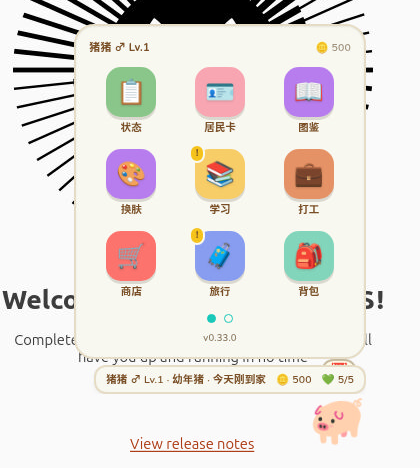
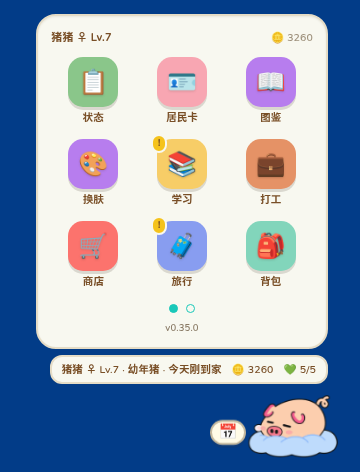
release: v0.35.0 — 经济体系、新立绘、扩展自动化（外壳 0.6.4）
- 外壳升 0.6.4（代理设置、面板开着时气泡不被挡）
- CHANGELOG 0.35.0 小节按主题写全
- README：顶部小猪图、功能列表、外壳说明换成现状；截图换成新立绘（主菜单、桌面、图鉴、换肤、不同状态的小猪、扩展徽章）
- HANDOFF 当前版本

diff --git a/CHANGELOG.md b/CHANGELOG.md
@@ -7,53 +7,44 @@ All notable changes to `dsh-pig`. Versions follow the plugin's own
 
 ## [Unreleased]
 
-- 普通猪、形态、皮肤、动作、睡姿、反馈场景与徽章统一为黑色轮廓透明 PNG，分类整理、离线清理和尺寸校准；原图不随游戏包发布。
-- 桌面可见与点击区域按 PNG 的透明边界计算，修复宽动作图的尾巴和身体被裁切；切换动作仍保持固定窗口大小。
-- 打工图改成猪在地上操作电脑，修正头背比例、背包带与新增蹄尖细节。
-- 皮肤包支持 PNG 并兼容旧 SVG，更新制作教程和示例包；旧存档无需重做。
+## [0.35.0] — 2026-10-10 · 经济体系、新立绘、扩展自动化（外壳 0.6.4）
 
-- **K1 菜园进度修正**：管理地块显示帮工的批次进度，不再写缺水；旧超长批次按 J2 周期校正，哈密瓜、葡萄跨六小时仓期正常出实物。手动浇水不重置批次，手动收获不重复发果。三种帮工空仓停工改显示「歇了／接着干」，有收成才叫「收一下」。
+### 新立绘
+- 普通猪、形态、皮肤、职业、成长阶段、动作、睡姿、不同状态的小猪和成就徽章，全部换成统一的黑色描边透明 PNG，按类型收进 `assets/pigs/`。游戏包反而小了一点。
+- 打工图改成猪趴在地上敲电脑；胖猪的宽图不再被裁掉。
+- 各种立绘按「猪的可见高度」统一校准，换皮肤、换形态时看起来一样大。
+- 自定义皮肤包改收 PNG，制作教程和示例包跟着换；以前做的 SVG 皮肤包照样能导入，已经装过的照常显示。
 
-- **K1 第二轮验收修正**：三个新帮工仓均累计六小时工作封顶，每个满级净时薪 ≤400；实物菜仍保留，帮工自动周期 / 收成单独核算；旧短行程原样保留。扩展单文件 server.js 上限改 600 行并恢复原格式 / 导出；不升存档版本；去掉钓鱼页新增说明，截图和验收材料不进仓库。
+### 经济
+- **不再限制每天玩几次**：番茄钟每个都给奖励；在线礼包每在线 1 小时一个、不设上限；猪在打工、上学、旅行时也能手动钓鱼。
+- 金币的进出都按来源记账，调试页「经济」能看钱从哪来、花到哪去（[设计](docs/design/economy.md)）。
+- **扩展有自己的钱**：菜币、矿石币、资质凭证……按扩展定的汇率跟金币互换（换成金币不收费，用金币买多收 5%）；删掉扩展时剩下的钱自动换成金币。背包里新增「钱包」页。
+- 各玩法的时薪都按收入区间核过（[J1](docs/numbers/J1-economy.md)、[J2](docs/numbers/J2-automation.md)）。
 
-- **自动钓鱼加长（K1）**：长时鱼篓恒定六小时工作产出，解锁 2 / 4 小时；鱼饵盒从背包逐竿补饵，鱼饵不足也可出发。仅新增 120/240 分钟行程每 4.5 分钟一竿、按时间差结算，仓满或缺饵就回，未用的预付饵退回；收一下再倒进背包。不升存档版本，ensureFishing 补默认字段；旧 30/60 分钟仍三分钟一竿、预付饵、直接进背包，重启不重复钓。
+### 玩法
+- **钓鱼 2.0**：40 种鱼、4 个钓点（小河、湖、海边、只在晚上开的夜潭）、4 把鱼竿；每种鱼游法不同、速度区间不同。等咬钩只要几秒（竹竿 3～8 秒），难度放在搏斗上，好竿让搏斗更容易；同种鱼越大越值钱。鲜虾鱼饵 15 → 6、夜光鱼饵 40 → 8。老存档送一把碳素竿。
+- **自动钓鱼加长**：可以买鱼篓、2 / 4 小时的自动钓、鱼饵盒；原来的 30 / 60 分钟一点没变。
+- **旅行 7 → 15 个地点**：公园、游乐场、动物园、海洋馆、竹林、雪山、沙漠、太空站（当过宇航员才能去），26 种新纪念品各有一句小故事。
+- **商店新上 27 件**：食物 12、洗浴 6、玩具 9。
+- **每个职业都能打 10 分钟短班**：时薪跟整班一样；短班不算完整一班，不会因为连打短班过劳生病。
 
-- **菜园 2.1.0**：可雇帮工猪，升级管理 2 / 4 / 8 块地和农具效率，谷仓恒定六小时。没有洒水器也会浇水，按帮工小批次周期把实物收成放进谷仓、用已有种子补种；六小时仓满就停止处理地块，缺种子就停，补回种子从当时继续，离线不追补停工产出。
+### 扩展（都要游戏 0.35.0）
+- **菜园 2.1.0**：16 种作物、8 块地；水壶、收割镰、播种器买了才能一键浇水 / 收获 / 种满；可以雇帮工猪替你收菜补种。界面换成插画版：天空、远山、木框田，主按钮自动做最该做的事。
+- **矿洞 2.1.0**：去掉体力，20 层，5 级镐一级级开路，矿脉、宝箱、化石、炸弹、电梯；可以雇小矿工猪替你挖。界面换成插画版洞窟。
+- **盲盒 3.0.0**：资质凭证放进钱包，1 张值 15 金币，能换成金币但不能用金币买；老存档的凭证打开盲盒时自动搬进钱包。
+- **扭蛋 1.2.0**：三台机器加进商店新上的东西。
+- 帮工、小矿工、自动钓鱼的仓都是攒满 6 小时就停，回来收一下接着干；满级每小时最多 400。
+- **扩展可以从文件导入**：「设置 → 扩展 → 📦 从文件导入」，选发布页上的扩展包 `.piggyext`（或扩展的三个文件）。官方扩展断网也能装；不是官方的先提醒风险，确认后才装，标「本地导入」、不会被在线更新盖掉。
 
-- **矿洞 2.1.0**：可雇小矿工猪，共用已有镐，升级矿车速度和头灯、选择电梯站；按真实时间产矿，离线最多到六小时仓满，收取倒进矿石袋。不触发手动连挖、宝箱、化石，不消耗猪饱食。
+### 桌面版（外壳 0.6.4）
+- 新增代理设置：跟随系统、直连、自定义 HTTP / SOCKS5；游戏更新、外壳更新和在线扩展共用。
+- 小猪大小改成「− 百分比 ＋」，每次 10%，也能直接输入；换皮肤后照样能调，两个窗口马上同步。
+- 面板开着时，签到 / 礼包小气泡挪到猪旁边，猪说的话也不再被面板挡住。
+- 少问 GitHub：版本列表和在线扩展目录存在本机，一段时间内不重复请求，带 ETag 问「有没有变」，不再撞「每小时次数用完」。
+- 修复两个窗口抢消息导致调试台词不显示。
 
-- **扩展自动化 K1 数值基准**：新增 [J2 数值单](docs/numbers/J2-automation.md) 和矿工、菜园帮工、自动钓鱼的经济模拟，列出每级价格、产出、净时薪和满仓时间，并逐时段检查钓鱼收益。用户已授权按本单继续实现，后续按反馈调数值。
-- **经济底座**（[设计](docs/design/economy.md)）：金币的加减全部走一个入口并按来源记账（打工、卖鱼、商店、学费……，扩展的记在「扩展名 · 来源」下），调试页新增「经济」页看钱从哪来、花到哪去。扩展删掉后，它挣的金币、给进背包的东西、账本历史都保留，别的扩展照常；扩展出错时整笔撤回；扩展冒充不了游戏本身的来源，一次动作最多加 100 万金币。扩展可以用 `api.exert` 让猪「玩会累」、用 `app.openShop()` 跳到自己的货架（按返回回到扩展页）。
-- **不再限制每天玩几次**：番茄钟每个都给奖励（以前每天只有前 8 个）；在线礼包每在线 1 小时一个、不设每天上限（没领的还是最多攒 3 个）；猪在打工、上学、旅行时也能手动钓鱼（只有自动钓鱼时不行）。
-
-- **扩展有自己的钱**：每个扩展可以有自己的货币（菜币 🥬、矿石币 ⛏……），按扩展定的汇率跟金币互换：换成金币不收费，用金币换扩展币多收 5%。扩展删掉时，里面剩的钱按汇率自动换成金币。背包里新增「钱包」页，扩展页顶上也显示。
-- **菜园 2.0**（扩展 ext-farm 2.0.0，要游戏 0.35.0）：16 种作物、8 块地；「一键播种 / 浇水 / 收获」照增量游戏的做法，一开始锁着，在商店「工具」里买了水壶、收割镰、播种器才解锁，还有按块装的洒水器和肥料；缺种子时直接跳到商店的种子货架，买完按返回回菜园。
-- **矿洞 2.0**（扩展 ext-mine 2.0.0，要游戏 0.35.0）：去掉体力，20 层，每 5 层一个电梯站；镐分 5 级，越深越要好镐；有矿脉、宝箱、化石（只收藏）、连挖加成、炸弹；挖累了猪会饿。老存档的钻石镐直接对应新的钻石镐。
-- **菜园、矿洞换成插画版界面**（用户 2026-10-10 定第 3 稿）：场景收进一扇窗（天空、远山、木框田 / 洞顶暖光、岩层），帮工状态是窗角一个小牌子；种子、镐、炸弹、电梯做成圆形口袋格；底下一个主按钮自动做最该做的事（有一键工具就一次做完，没有就一次做一块），工具、仓库、矿石袋收进圆按钮点开才出来。不放一直跳动的动画，只在点下去时有反馈。钓鱼页不变。
-- **钓鱼 2.0**：
-  - 鱼从 15 种加到 40 种，分在小河、湖、海边、夜潭四个钓点（湖 1500、海边 4000、夜潭 9000 金币开；夜潭只在晚上开）。
-  - 新增 4 把鱼竿（竹竿 → 碳素竿 800 → 专业竿 2500 → 传说竿 7000）：好竿咬钩快、搏斗简单、绿区宽、更耐拉、稀有鱼多。老存档直接送碳素竿。
-  - 手感按鱼的游法分：平稳、冲刺（时不时猛冲）、下沉 / 上浮（一直往一边拽）、多变，各有速度区间，越难的鱼越快。
-  - 等咬钩时浮漂会被试探、冒泡，提早拉会提示「只是试探」。同一种鱼越大越值钱（七折到一点三倍）。
-  - 等咬钩很短（竹竿 3～8 秒、传说竿 1.5～4 秒），难度放在搏斗上：三种搏斗都比以前多花一半时间，好竿让搏斗变容易。鱼价不变。
-  - 调价：鲜虾鱼饵 15 → 6，夜光鱼饵 40 → 8；每抛一竿猪累半点饱食。数值见 [J1 第 4 节](docs/numbers/J1-economy.md)。
-- **旅行 7 → 15 个地点**：新加公园、游乐场、动物园、海洋馆、竹林、雪山、沙漠、太空站，带回 26 种新纪念品，每件一句小故事。太空站要当过宇航员才能去。近处的短途纪念品卖得便宜（公园 30、游乐场 40、动物园 45），免得来回逛公园刷钱。数值见 [J1 第 5 节](docs/numbers/J1-economy.md)。
-- **盲盒 3.0**（扩展 ext-blindbox 3.0.0，要游戏 0.35.0）：资质凭证放进钱包，1 张值 15 金币，可以换成金币，但不能用金币买（不然等于花钱直接买六星）。删掉盲盒时剩下的凭证自动换成金币。老存档的凭证在第一次打开盲盒时搬进钱包。
-- **扭蛋 1.2**（扩展 ext-gacha 1.2.0，要游戏 0.35.0）：三台机器里加进商店新上的饭团、火锅、生日蛋糕、小火车、森林浴等，一抽的平均价值还是低于 60 金币。
-- **每个职业都能打 10 分钟短班**：打工详情里「出发」下面多一个「⏱ 短班」，金币、饱食、清洁按时长比例算，时薪跟整班一样。短班不算完整一班：不计打工次数、不解锁职业外观、不算连续出门（不会因为连打短班过劳生病）。
-- **商店新上 27 件**：食物 12 种（饭团、饺子、火锅、生日蛋糕……）、洗浴 6 种（薄荷澡、小黄鸭浴、森林浴……）、玩具 9 种（毛线球、跳绳、小火车、游戏机……）。
-- 网页版自带的 emoji 字体补上了新玩法和菜园、矿洞扩展里用到的 40 多个表情（以前这些会显示成系统表情或方框）。
-- **扩展可以从文件导入**（用户 2026-10-10：有些人下载不了）：「设置 → 扩展」里新增「📦 从文件导入」，选扩展包 `.piggyext`（发布页上跟扩展一起发）或扩展的三个文件。官方扩展核对游戏自带的校验值，断网也能直接装；不是官方的先提醒风险，确认后才装，标「本地导入」、不会被在线更新盖掉。
-- **少问 GitHub，不再撞「每小时次数用完」**（用户反馈）：
-  - 桌面版的版本列表存在本机，半小时内不再问；过期了带 ETag 问「有没有变」，没变 GitHub 回 304、不算次数；各版本的 manifest 下过一次就记住。猪窗口和面板窗口同时查只发一次。问不到（限流、断网）就先用存着的列表，不报错。设置里点「刷新」才会马上去问。
-  - 在线扩展目录存在存档旁边，一小时内不再问，同样带 ETag；读失败先用本地那份，5 分钟后才再试（以前每次打开扩展页都重新请求、每次重试）。
-  - 网页版（DSH 插件）的「最新正式版」6 小时内刷新页面不再问。
-  - 这几项里桌面版的部分要更新桌面外壳才生效。
-- 桌面设置新增跟随系统、直连、自定义 HTTP / SOCKS5 代理；清除配置后恢复跟随系统，游戏更新、外壳更新和在线扩展共用配置。
-- 修复桌面两个窗口争用消息队列导致调试台词不显示；小动作和散步调试转到可见的猪窗口执行。
-- 普通猪、内置皮肤、反馈图和睡姿按默认小猪的可见高度统一校准；导入皮肤也按高度测量。
-- 小猪大小改为减号、百分比输入、加号：每次增减 10%，也可直接输入比例，旧四档偏好自动迁移。普通猪、内置形态、导入皮肤和睡姿共用一个比例，只改当前设备的显示，不改存档或原图。
-- 代理设置改用模式下拉框；HTTP / SOCKS5 地址按需显示，应用、测试连接、恢复系统各自独立，连接结果单独显示。
+### 其他
+- 网页版自带的 emoji 字体补上新玩法和扩展里用到的 40 多个表情。
 
 ## [0.34.1] — 2026-10-09 · Gitee 的 Windows 安装包改成首次启动下载游戏（外壳 0.6.3）
 

diff --git a/docs/HANDOFF.md b/docs/HANDOFF.md
@@ -1,4 +1,4 @@
-# dsh-piggy 维护交接文档（2026-10-09，已发 v0.34.1 / 外壳 0.6.3；main 上有待发的 0.35.0 经济体系）
+# dsh-piggy 维护交接文档（2026-10-10，v0.35.0 / 外壳 0.6.4）
 
 > 给接手维护的 DeepSeek / 任何 agent / 开发者。最短的入口是仓库根目录的 [AGENTS.md](../AGENTS.md)（红线和文档地图），这一页是完整的现状和流程。
 > 本页取代 [2026-10-03 的交接记录](archive/HANDOFF-2026-10-03.md)（那份停在 v0.27，只作历史参考）。
@@ -89,7 +89,7 @@
 
 ### 4.4 桌面版：外壳和游戏包分开
 
-- **外壳**（`apps/desktop/`，当前 **0.6.3**）：两个窗口（猪 / 面板）、托盘、更新器。改了 `main.js` / `preload.cjs` / `lib/` / `renderer/` 才需要升外壳版本，用户要重装或外壳自更新。结构和全部 IPC 见 [桌面架构](guides/desktop-architecture.md)。
+- **外壳**（`apps/desktop/`，当前 **0.6.4**）：两个窗口（猪 / 面板）、托盘、更新器。改了 `main.js` / `preload.cjs` / `lib/` / `renderer/` 才需要升外壳版本，用户要重装或外壳自更新。结构和全部 IPC 见 [桌面架构](guides/desktop-architecture.md)。
 - **游戏包**（= 插件那份代码，`apps/desktop/scripts/pack-game.mjs` 复制、`release-game.mjs` 打成 `game-<版本>.json.gz` + manifest）：在「设置 → 更新」里直接下载切换、可回退，不用重装。
 - 窗口摆放、可点区域、桌面样式都放在游戏包里（`src/client/desktop/`），所以这类修复走游戏包更新就到。
 - 详见 [更新机制](guides/updates.md)、[桌面版指南](guides/desktop.md)、`docs/DEVELOPMENT.md`「桌面程序和游戏包怎么分工」。
@@ -195,7 +195,7 @@ PIGGY_GAME_PIN=<game-pin.json>            # 首次下载用的清单（scripts/w
 |---|---|---|
 | 游戏版本 | 根 `package.json` `version` | 每次发版 |
 | 别名包 | `packages/dsh-plugin-piggy/package.json` 的 `version` 和 `dependencies.dsh-piggy` | 和游戏版本同步 |
-| 桌面外壳 | `apps/desktop/package.json` `version` | 只有改了外壳代码才升（当前 0.6.3；加基础动作时同时升 `src/client/desktop/index.js` 的 `DESKTOP_VERSION`） |
+| 桌面外壳 | `apps/desktop/package.json` `version` | 只有改了外壳代码才升（当前 0.6.4；加基础动作时同时升 `src/client/desktop/index.js` 的 `DESKTOP_VERSION`） |
 | 存档 | `STATE_VERSION` | 只有存档结构变了才升（配迁移） |
 | 扩展 | `extensions/<key>/manifest.json` | 扩展改了就升，`minGame` 写需要的最低游戏版本 |
 
